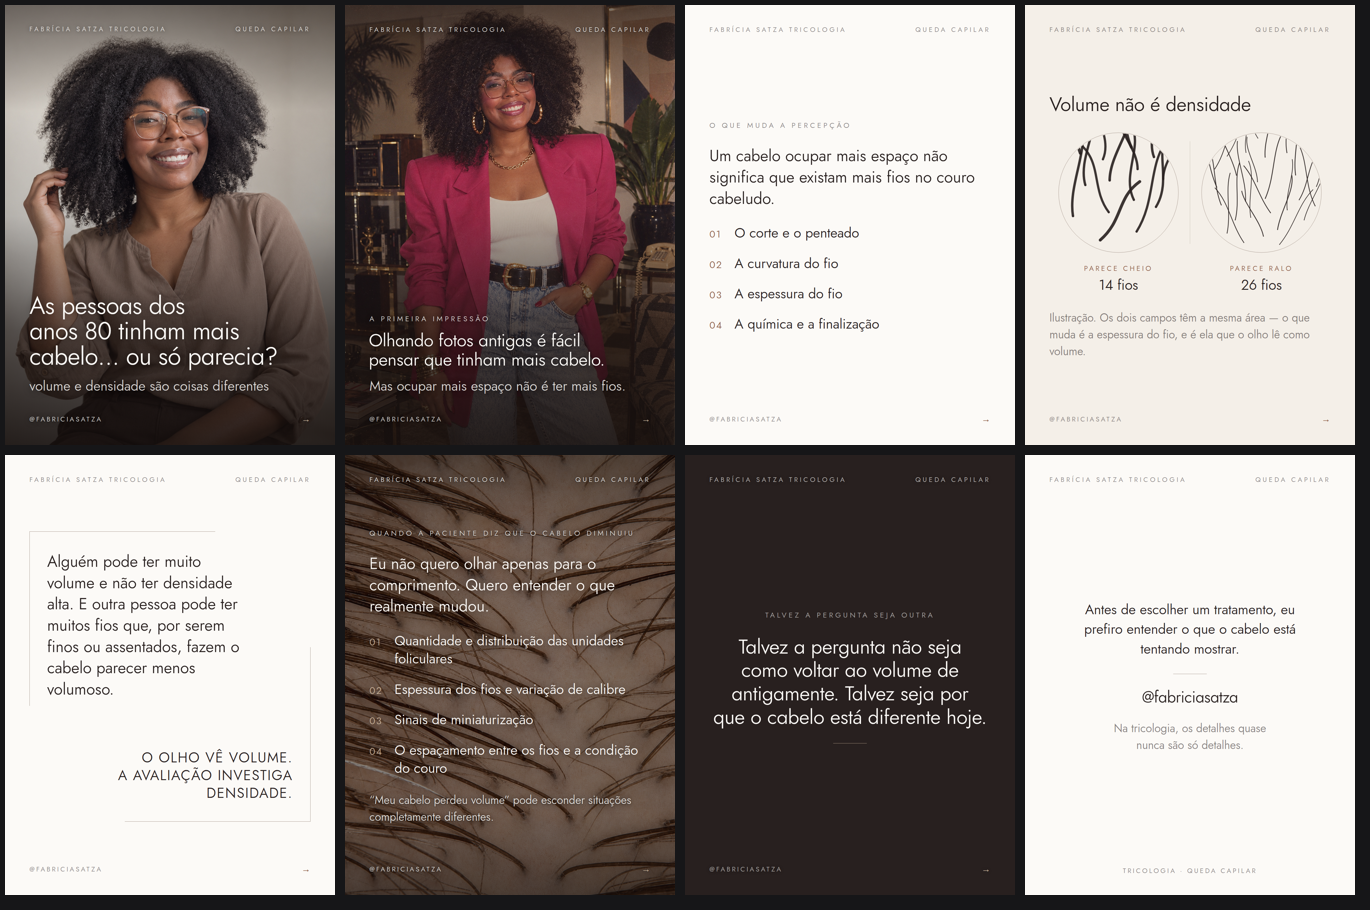
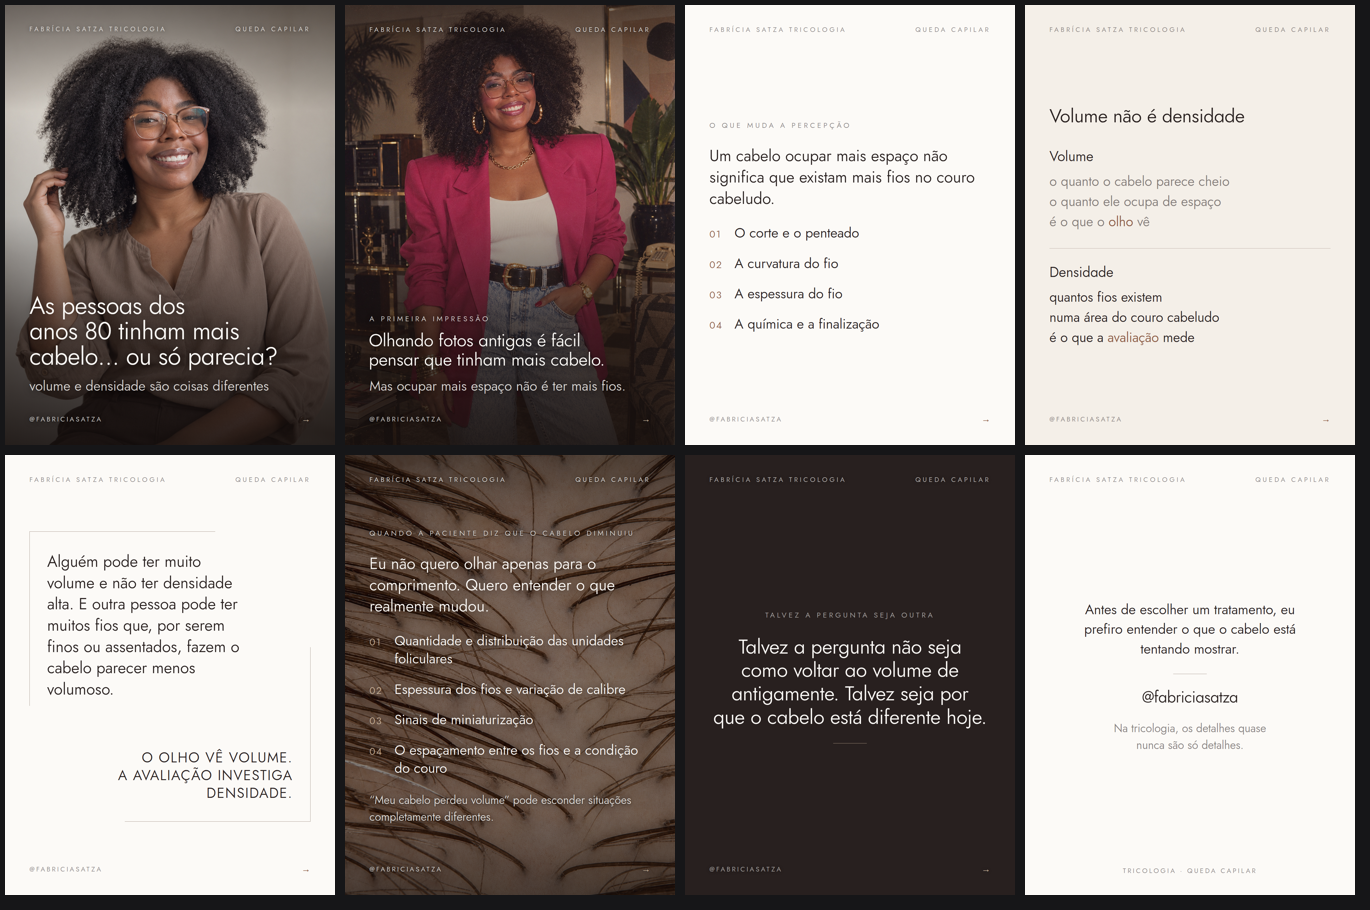
Volume x densidade: mesmo texto, leitura na vertical
Sai o desenho dos dois campos e sai o comparativo lado a lado. Fica o texto
que ela ja tinha aprovado, empilhado.

O problema das duas colunas nao era o layout em si, era a largura: em 1080px
cada coluna sobrava perto de 400px e as linhas quebravam em tres palavras, de
modo que a pessoa comparava fragmentos em vez de frases. Empilhado, cada
definicao usa a largura inteira e o olho desce, que e como se le no celular.

A hierarquia que antes vinha da coluna apagada agora vem do peso: volume em
cor suave, densidade em cor cheia, separados por um fio de 1px na largura
toda. E os dois acentos em terracota — "olho" e "avaliacao" — sao o par que
resume a peca, entao aqui os dois destaques valem a excecao a regra de um
por slide.

Termo em 46px contra o titulo em 62: em 54 os dois liam como dois titulos.

Claude-Session: https://claude.ai/code/session_01DL9VyhWUWZtPxmDSzgTccC

Changed region(s): [[0.7664, 0.0923, 0.981, 0.4]]

diff --git a/carrossel-volume-densidade.html b/carrossel-volume-densidade.html
@@ -400,8 +400,11 @@ em,i,.destaque{font-style:normal;color:var(--terracota-esc)}
 .cursor{display:inline-block;width:5px;height:.88em;margin-left:10px;
      vertical-align:-.11em;border-radius:2px;background:#F5A623}
 
-.campos{flex-shrink:0}
-.campos svg{display:block;width:100%;height:auto}
+.def-bloco{flex-shrink:0}
+.def-termo-l{font-family:var(--titulo);font-size:46px;line-height:1;margin-bottom:26px}
+.def-linhas div{font-size:44px;line-height:1.5}
+.def-linhas.fraco{color:var(--suave)}
+.def-fio{height:1px;background:var(--taupe);opacity:.75;margin:54px 0;flex-shrink:0}
 </style>
 </head>
 <body>
@@ -449,114 +452,39 @@ em,i,.destaque{font-style:normal;color:var(--terracota-esc)}
   <div class="rod"><span>@fabriciasatza</span><span class="segue">&#8594;</span></div>
 </section>
 
-<!-- 04 ▸ CAMPOS — em vez de afirmar a diferenca em duas colunas de texto, o
-     slide MOSTRA. Dois campos de mesma area: a esquerda 14 fios grossos, a
-     direita 26 finos. O de menos fios parece mais cheio, e e o argumento
-     inteiro da peca resolvido em uma imagem.
+<!-- 04 ▸ DEFINIÇÕES — o mesmo texto do comparativo, mas empilhado.
+     Lado a lado, em 1080px de largura, cada coluna sobrava 400px e as linhas
+     quebravam em tres palavras: o leitor comparava fragmentos. Empilhado,
+     cada definicao usa a largura inteira, e o olho desce em vez de pingar de
+     um lado para o outro — que e como se le no celular.
 
-     Os numeros sao reais no desenho: o gerador conta os folículos que
-     colocou. Nao ha dado clinico inventado aqui, e a legenda diz que e
-     ilustracao. -->
+     A hierarquia que antes vinha da coluna apagada agora vem do peso: o
+     bloco de volume em cor suave, o de densidade em cor cheia. O olho cai no
+     segundo, que e onde a avaliacao mora. -->
 <section class="slide quente">
   <div class="cab"><span>Fabrícia Satza Tricologia</span><span>Queda capilar</span></div>
-  <div class="corpo" style="gap:40px">
-    <div class="titulo" style="font-size:64px">Volume não é densidade</div>
-    <div class="campos"><svg viewBox="0 0 920 556" width="920" height="556" xmlns="http://www.w3.org/2000/svg" font-family="'Fabricia Satza','Futura',sans-serif">
-<clipPath id="ca"><circle cx="226" cy="214" r="194"/></clipPath>
-<g clip-path="url(#ca)">
-<path d="M268.4 65.9 C225.4 -21.0 273.7 -118.2 229.4 -189.8" stroke="#28201F" stroke-width="9.62" fill="none" stroke-linecap="round" opacity=".9"/>
-<circle cx="268.4" cy="65.9" r="3.8" fill="#28201F" opacity=".45"/>
-<path d="M101.1 85.3 C70.7 8.5 120.0 -77.3 68.1 -140.5" stroke="#28201F" stroke-width="9.53" fill="none" stroke-linecap="round" opacity=".9"/>
-<circle cx="101.1" cy="85.3" r="3.8" fill="#28201F" opacity=".45"/>
-<path d="M342.0 97.3 C314.2 22.3 380.2 -61.5 354.4 -123.2" stroke="#28201F" stroke-width="8.02" fill="none" stroke-linecap="round" opacity=".9"/>
-<circle cx="342.0" cy="97.3" r="3.2" fill="#28201F" opacity=".45"/>
-<path d="M175.0 104.9 C208.6 28.2 126.3 -57.5 162.5 -120.6" stroke="#28201F" stroke-width="7.36" fill="none" stroke-linecap="round" opacity=".9"/>
-<circle cx="175.0" cy="104.9" r="2.9" fill="#28201F" opacity=".45"/>
-<path d="M288.5 137.0 C288.9 58.3 187.3 -29.7 210.3 -94.5" stroke="#28201F" stroke-width="7.66" fill="none" stroke-linecap="round" opacity=".9"/>
-<circle cx="288.5" cy="137.0" r="3.1" fill="#28201F" opacity=".45"/>
-<path d="M372.5 169.5 C370.8 92.1 475.2 5.6 461.0 -58.2" stroke="#28201F" stroke-width="7.37" fill="none" stroke-linecap="round" opacity=".9"/>
-<circle cx="372.5" cy="169.5" r="2.9" fill="#28201F" opacity=".45"/>
-<path d="M197.1 173.7 C197.1 87.3 284.5 -9.2 268.8 -80.3" stroke="#28201F" stroke-width="8.41" fill="none" stroke-linecap="round" opacity=".9"/>
-<circle cx="197.1" cy="173.7" r="3.4" fill="#28201F" opacity=".45"/>
-<path d="M117.4 189.1 C90.1 94.7 178.5 -10.7 131.1 -88.4" stroke="#28201F" stroke-width="7.71" fill="none" stroke-linecap="round" opacity=".9"/>
-<circle cx="117.4" cy="189.1" r="3.1" fill="#28201F" opacity=".45"/>
-<path d="M276.2 237.6 C233.8 151.7 312.6 55.8 262.6 -14.9" stroke="#28201F" stroke-width="7.63" fill="none" stroke-linecap="round" opacity=".9"/>
-<circle cx="276.2" cy="237.6" r="3.1" fill="#28201F" opacity=".45"/>
-<path d="M348.6 260.8 C400.9 175.8 343.2 80.8 387.0 10.9" stroke="#28201F" stroke-width="7.71" fill="none" stroke-linecap="round" opacity=".9"/>
-<circle cx="348.6" cy="260.8" r="3.1" fill="#28201F" opacity=".45"/>
-<path d="M194.0 278.0 C136.4 201.3 173.5 115.6 97.6 52.5" stroke="#28201F" stroke-width="7.35" fill="none" stroke-linecap="round" opacity=".9"/>
-<circle cx="194.0" cy="278.0" r="2.9" fill="#28201F" opacity=".45"/>
-<path d="M77.0 290.5 C60.4 185.8 133.5 68.8 101.3 -17.4" stroke="#28201F" stroke-width="7.98" fill="none" stroke-linecap="round" opacity=".9"/>
-<circle cx="77.0" cy="290.5" r="3.2" fill="#28201F" opacity=".45"/>
-<path d="M285.2 341.4 C350.6 238.0 321.0 122.3 388.5 37.1" stroke="#28201F" stroke-width="7.54" fill="none" stroke-linecap="round" opacity=".9"/>
-<circle cx="285.2" cy="341.4" r="3.0" fill="#28201F" opacity=".45"/>
-<path d="M166.2 369.3 C241.4 304.2 220.3 231.5 295.6 177.9" stroke="#28201F" stroke-width="9.61" fill="none" stroke-linecap="round" opacity=".9"/>
-<circle cx="166.2" cy="369.3" r="3.8" fill="#28201F" opacity=".45"/>
-</g>
-<circle cx="226" cy="214" r="196" fill="none" stroke="#A99B91" stroke-width="1"/>
-<clipPath id="cb"><circle cx="694" cy="214" r="194"/></clipPath>
-<g clip-path="url(#cb)">
-<path d="M682.1 35.7 C652.2 -9.9 655.1 -60.8 626.3 -98.4" stroke="#28201F" stroke-width="2.06" fill="none" stroke-linecap="round" opacity=".9"/>
-<circle cx="682.1" cy="35.7" r="1.5" fill="#28201F" opacity=".45"/>
-<path d="M643.2 82.6 C633.2 33.2 662.5 -22.0 645.8 -62.7" stroke="#28201F" stroke-width="2.09" fill="none" stroke-linecap="round" opacity=".9"/>
-<circle cx="643.2" cy="82.6" r="1.5" fill="#28201F" opacity=".45"/>
-<path d="M777.2 83.2 C765.0 17.8 797.3 -55.3 780.3 -109.2" stroke="#28201F" stroke-width="2.53" fill="none" stroke-linecap="round" opacity=".9"/>
-<circle cx="777.2" cy="83.2" r="1.5" fill="#28201F" opacity=".45"/>
-<path d="M581.6 94.5 C624.9 31.2 631.7 -39.5 667.6 -91.6" stroke="#28201F" stroke-width="2.05" fill="none" stroke-linecap="round" opacity=".9"/>
-<circle cx="581.6" cy="94.5" r="1.5" fill="#28201F" opacity=".45"/>
-<path d="M705.9 98.0 C701.3 41.8 732.5 -21.0 724.6 -67.3" stroke="#28201F" stroke-width="2.76" fill="none" stroke-linecap="round" opacity=".9"/>
-<circle cx="705.9" cy="98.0" r="1.5" fill="#28201F" opacity=".45"/>
-<path d="M541.0 136.6 C581.6 75.9 580.3 8.1 618.9 -41.8" stroke="#28201F" stroke-width="2.37" fill="none" stroke-linecap="round" opacity=".9"/>
-<circle cx="541.0" cy="136.6" r="1.5" fill="#28201F" opacity=".45"/>
-<path d="M805.7 156.4 C796.7 96.1 818.2 28.8 810.2 -20.8" stroke="#28201F" stroke-width="2.73" fill="none" stroke-linecap="round" opacity=".9"/>
-<circle cx="805.7" cy="156.4" r="1.5" fill="#28201F" opacity=".45"/>
-<path d="M612.0 157.1 C598.0 95.5 552.2 26.7 543.4 -24.1" stroke="#28201F" stroke-width="2.53" fill="none" stroke-linecap="round" opacity=".9"/>
-<circle cx="612.0" cy="157.1" r="1.5" fill="#28201F" opacity=".45"/>
-<path d="M680.9 178.7 C679.9 129.0 638.7 73.5 646.8 32.6" stroke="#28201F" stroke-width="2.28" fill="none" stroke-linecap="round" opacity=".9"/>
-<circle cx="680.9" cy="178.7" r="1.5" fill="#28201F" opacity=".45"/>
-<path d="M873.8 193.8 C897.9 141.9 879.8 83.9 903.8 41.1" stroke="#28201F" stroke-width="2.19" fill="none" stroke-linecap="round" opacity=".9"/>
-<circle cx="873.8" cy="193.8" r="1.5" fill="#28201F" opacity=".45"/>
-<path d="M547.6 196.3 C518.1 129.1 517.0 54.1 480.5 -1.3" stroke="#28201F" stroke-width="2.65" fill="none" stroke-linecap="round" opacity=".9"/>
-<circle cx="547.6" cy="196.3" r="1.5" fill="#28201F" opacity=".45"/>
-<path d="M706.4 232.9 C736.7 163.8 730.4 86.7 756.8 29.8" stroke="#28201F" stroke-width="2.71" fill="none" stroke-linecap="round" opacity=".9"/>
-<circle cx="706.4" cy="232.9" r="1.5" fill="#28201F" opacity=".45"/>
-<path d="M817.3 237.6 C850.1 183.6 844.4 123.4 882.0 78.9" stroke="#28201F" stroke-width="2.49" fill="none" stroke-linecap="round" opacity=".9"/>
-<circle cx="817.3" cy="237.6" r="1.5" fill="#28201F" opacity=".45"/>
-<path d="M641.7 242.1 C645.5 175.5 609.3 101.0 615.2 46.2" stroke="#28201F" stroke-width="2.45" fill="none" stroke-linecap="round" opacity=".9"/>
-<circle cx="641.7" cy="242.1" r="1.5" fill="#28201F" opacity=".45"/>
-<path d="M562.3 254.6 C535.5 189.0 545.1 115.7 520.6 61.7" stroke="#28201F" stroke-width="2.59" fill="none" stroke-linecap="round" opacity=".9"/>
-<circle cx="562.3" cy="254.6" r="1.5" fill="#28201F" opacity=".45"/>
-<path d="M869.5 257.5 C837.3 192.8 844.2 120.5 820.6 67.2" stroke="#28201F" stroke-width="2.43" fill="none" stroke-linecap="round" opacity=".9"/>
-<circle cx="869.5" cy="257.5" r="1.5" fill="#28201F" opacity=".45"/>
-<path d="M778.2 270.6 C771.7 214.4 803.0 151.7 794.6 105.5" stroke="#28201F" stroke-width="2.17" fill="none" stroke-linecap="round" opacity=".9"/>
-<circle cx="778.2" cy="270.6" r="1.5" fill="#28201F" opacity=".45"/>
-<path d="M723.6 280.0 C685.3 227.8 673.4 169.4 636.1 126.4" stroke="#28201F" stroke-width="2.54" fill="none" stroke-linecap="round" opacity=".9"/>
-<circle cx="723.6" cy="280.0" r="1.5" fill="#28201F" opacity=".45"/>
-<path d="M658.8 295.0 C647.9 232.4 674.2 162.5 651.7 111.0" stroke="#28201F" stroke-width="2.10" fill="none" stroke-linecap="round" opacity=".9"/>
-<circle cx="658.8" cy="295.0" r="1.5" fill="#28201F" opacity=".45"/>
-<path d="M833.6 303.4 C848.3 244.3 899.5 178.1 903.3 129.4" stroke="#28201F" stroke-width="2.04" fill="none" stroke-linecap="round" opacity=".9"/>
-<circle cx="833.6" cy="303.4" r="1.5" fill="#28201F" opacity=".45"/>
-<path d="M608.1 303.5 C624.0 240.1 603.3 169.2 621.9 117.0" stroke="#28201F" stroke-width="2.56" fill="none" stroke-linecap="round" opacity=".9"/>
-<circle cx="608.1" cy="303.5" r="1.5" fill="#28201F" opacity=".45"/>
-<path d="M746.6 334.9 C755.6 274.8 802.0 207.7 793.3 158.2" stroke="#28201F" stroke-width="2.74" fill="none" stroke-linecap="round" opacity=".9"/>
-<circle cx="746.6" cy="334.9" r="1.5" fill="#28201F" opacity=".45"/>
-<path d="M581.4 346.5 C595.0 279.7 574.5 205.1 591.4 150.2" stroke="#28201F" stroke-width="2.40" fill="none" stroke-linecap="round" opacity=".9"/>
-<circle cx="581.4" cy="346.5" r="1.5" fill="#28201F" opacity=".45"/>
-<path d="M700.3 356.7 C690.3 306.6 637.0 250.5 629.5 209.2" stroke="#28201F" stroke-width="2.62" fill="none" stroke-linecap="round" opacity=".9"/>
-<circle cx="700.3" cy="356.7" r="1.5" fill="#28201F" opacity=".45"/>
-<path d="M636.2 377.4 C594.6 316.6 588.1 248.7 542.0 198.7" stroke="#28201F" stroke-width="2.38" fill="none" stroke-linecap="round" opacity=".9"/>
-<circle cx="636.2" cy="377.4" r="1.5" fill="#28201F" opacity=".45"/>
-<path d="M753.1 383.6 C802.9 322.6 813.3 254.5 862.2 204.4" stroke="#28201F" stroke-width="2.10" fill="none" stroke-linecap="round" opacity=".9"/>
-<circle cx="753.1" cy="383.6" r="1.5" fill="#28201F" opacity=".45"/>
-</g>
-<circle cx="694" cy="214" r="196" fill="none" stroke="#A99B91" stroke-width="1"/>
-<line x1="460" y1="46" x2="460" y2="382" stroke="#A99B91" stroke-width="1" opacity=".5"/>
-<text x="226" y="470" text-anchor="middle" fill="#8A5A44" font-size="23" letter-spacing="6">PARECE CHEIO</text>
-<text x="694" y="470" text-anchor="middle" fill="#8A5A44" font-size="23" letter-spacing="6">PARECE RALO</text>
-<text x="226" y="532" text-anchor="middle" fill="#28201F" font-size="46">14 fios</text>
-<text x="694" y="532" text-anchor="middle" fill="#28201F" font-size="46">26 fios</text>
-</svg></div>
-    <div class="texto-sm">Ilustração. Os dois campos têm a mesma área — o que muda é a espessura do fio, e é ela que o olho lê como volume.</div>
+  <div class="corpo" style="gap:0">
+    <div class="titulo" style="font-size:62px;margin-bottom:74px">Volume não é densidade</div>
+
+    <div class="def-bloco">
+      <div class="def-termo-l">Volume</div>
+      <div class="def-linhas fraco">
+        <div>o quanto o cabelo parece cheio</div>
+        <div>o quanto ele ocupa de espaço</div>
+        <div>é o que o <em>olho</em> vê</div>
+      </div>
+    </div>
+
+    <div class="def-fio"></div>
+
+    <div class="def-bloco">
+      <div class="def-termo-l">Densidade</div>
+      <div class="def-linhas">
+        <div>quantos fios existem</div>
+        <div>numa área do couro cabeludo</div>
+        <div>é o que a <em>avaliação</em> mede</div>
+      </div>
+    </div>
   </div>
   <div class="rod"><span>@fabriciasatza</span><span class="segue">&#8594;</span></div>
 </section>
